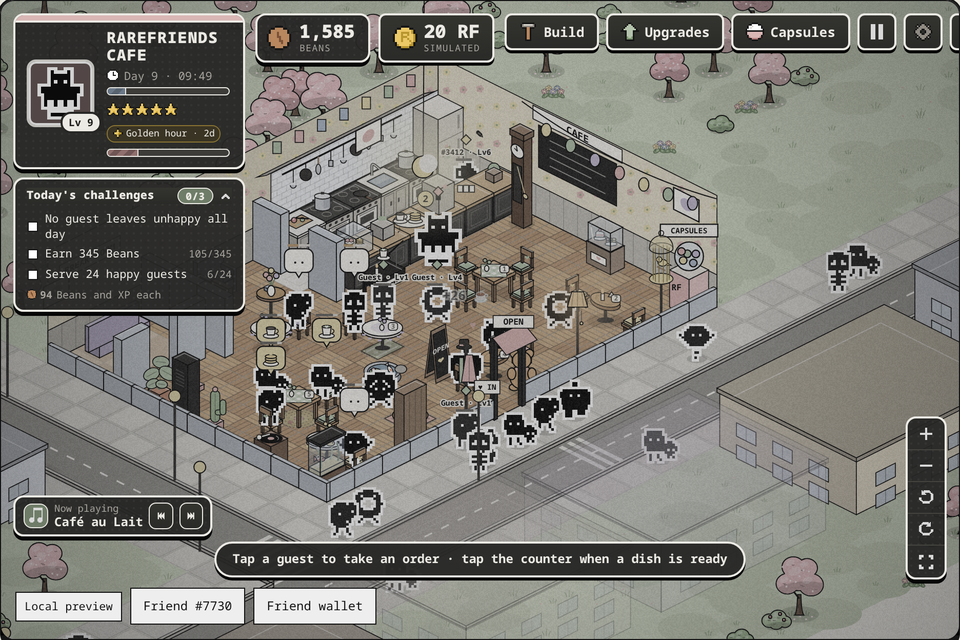
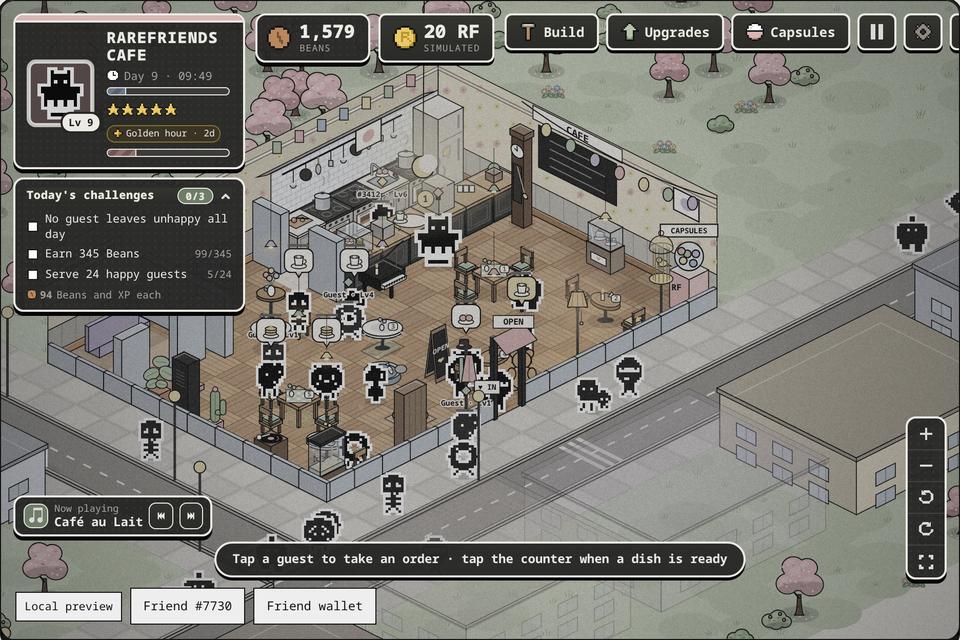
v1.10: a cosier café (warm floor light, lamp and window light pools, pendant lamps, skirting and picture rail, evenings that glow) with no extra frame cost; tables cost more and rise with each one you own

diff --git a/games/rarefriends-cafe/render.ts b/games/rarefriends-cafe/render.ts
@@ -4,7 +4,7 @@ import { FLOORS, WALLPAPERS, catalogItem, dishById, isRug, isTable, shopById, wo
 import { CAPSULE_ID, DIR_FACING, eventActive, ambience, dayProgress, manager, memberOf, plan, tables, type CafeState, type Customer, type Facing, type Passerby, type StaffWho, type Worker } from "./engine.ts";
 import type { GuestArt } from "./guests.ts";
 import { bead, behindWalls, drawProp, outsideProps, paintGround } from "./world.ts";
-import { type Neighbour, FACING, buildingById, depthOf, turnView, viewDir, viewTurn, cameraFor, fromKey, inside, key, project, seatOf, seatsOf, toWorld, unproject, type Camera, type Dir, type Item, type Placement, type Tile } from "./layout.ts";
+import { TILE_W, type Neighbour, FACING, buildingById, depthOf, turnView, viewDir, viewTurn, cameraFor, fromKey, inside, key, project, seatOf, seatsOf, toWorld, unproject, type Camera, type Dir, type Item, type Placement, type Tile } from "./layout.ts";
 
 export const VIEW = { width: 960, height: 640 } as const;
 /** The player's zoom and pan (in view pixels), on top of the camera that frames the shop. */
@@ -110,7 +110,12 @@ const tileQuad = (x: number, y: number, inset = 0) =>
 export function line(ctx: CanvasRenderingContext2D, a: Point, b: Point) { ctx.beginPath(); ctx.moveTo(a.x, a.y); ctx.lineTo(b.x, b.y); ctx.stroke(); }
 
 // ---------- Static layer: paper, street, walls and floors ----------
-let backdrop: { canvas: HTMLCanvasElement; key: string } | null = null;
+let backdrop: { canvas: HTMLCanvasElement; key: string; windows: WindowSpot[] } | null = null;
+/** The windows on the back walls (collected while the backdrop paints), for the daylight they cast on the floor. */
+type WindowSpot = { wall: Wall; start: number; span: number };
+let windowSpots: WindowSpot[] = [];
+/** Pools of light on the floor (lamps, candles, pendants, window light), painted once per layout and time of day. */
+let glowLayer: { canvas: HTMLCanvasElement; key: string } | null = null;
 /** Backdrop canvases are reused while panning and zooming, rather than allocated every frame. */
 const recycled: HTMLCanvasElement[] = [];
 const H = 132;
@@ -382,9 +387,92 @@ function paintBackdrop(state: CafeState, scale: number, camera: Camera) {
   for (let y = 0; y < DEEP; y++) for (let x = 0; x < WIDE; x++) if (!layout.cut.has(key({ x, y }))) {
     line(ctx, project(x - 0.5, y - 0.5), project(x + 0.5, y - 0.5)); line(ctx, project(x - 0.5, y - 0.5), project(x - 0.5, y + 0.5));
   }
+  // Soft shade where the floor meets the back walls (deepest in the corner), so the room has depth.
+  for (const side of backs) {
+    const wall = wallOf(layout, side);
+    for (const [first, last] of wallSpans(layout, side)) {
+      const a = wallPoint(wall, first, 0), b = wallPoint(wall, last + 1, 0), c = wallPoint(wall, last + 1, 0, -1.3), d = wallPoint(wall, first, 0, -1.3);
+      const shade = ctx.createLinearGradient((a.x + b.x) / 2, (a.y + b.y) / 2, (c.x + d.x) / 2, (c.y + d.y) / 2);
+      shade.addColorStop(0, "rgba(70,48,34,.2)"); shade.addColorStop(0.45, "rgba(70,48,34,.07)"); shade.addColorStop(1, "rgba(70,48,34,0)");
+      ctx.fillStyle = shade; ctx.beginPath(); [a, b, c, d].forEach((q, i) => i ? ctx.lineTo(q.x, q.y) : ctx.moveTo(q.x, q.y)); ctx.closePath(); ctx.fill();
+    }
+  }
   ctx.lineWidth = 1; ctx.strokeStyle = INK;
   for (const edge of buildingEdges(layout)) line(ctx, project(edge.tile.x + edge.a.x, edge.tile.y + edge.a.y), project(edge.tile.x + edge.b.x, edge.tile.y + edge.b.y));
   return canvas;
+}
+/** How far the day has turned to evening (0 morning and midday … 1 after closing), in eighths so the light layer repaints rarely. */
+function eveningOf(state: CafeState) {
+  const progress = state.phase === "open" ? dayProgress(state) : state.phase === "summary" ? 1 : 0;
+  return Math.round(Math.max(0, Math.min(1, (progress - 0.5) / 0.45)) * 8) / 8;
+}
+/** Things that give off light, and how: warm lamps and candles, the fire's orange, the neon's pink, the aquarium's blue. */
+const LIGHTS: Partial<Record<ItemKind, { r: number; rgb: string; k: number }>> = {
+  lamp: { r: 1.9, rgb: "255,214,150", k: 0.5 }, candelabra: { r: 1.6, rgb: "255,205,140", k: 0.45 }, fireplace: { r: 2.3, rgb: "255,170,110", k: 0.55 },
+  rfneon: { r: 1.8, rgb: "240,160,190", k: 0.4 }, aquarium: { r: 1.4, rgb: "160,200,235", k: 0.3 }, carousel: { r: 1.4, rgb: "255,220,170", k: 0.3 },
+};
+/**
+ * The light layer, laid over the floor under the furniture: daylight through the windows (fading toward evening) and
+ * pools of lamplight (growing toward evening) under lamps, candles, the fire and every table's pendant. Painted into its
+ * own canvas once per layout, view and eighth of the evening, then drawn with one call a frame.
+ */
+function paintGlow(state: CafeState, scale: number, camera: Camera, windows: readonly WindowSpot[], evening: number) {
+  const canvas = recycled.pop() ?? document.createElement("canvas");
+  canvas.width = Math.round(VIEW.width * scale); canvas.height = Math.round(VIEW.height * scale);
+  const ctx = canvas.getContext("2d")!;
+  ctx.setTransform(scale, 0, 0, scale, 0, 0); ctx.clearRect(0, 0, VIEW.width, VIEW.height);
+  ctx.translate(camera.x, camera.y); ctx.scale(camera.zoom, camera.zoom);
+  const layout = plan(state), day = 1 - evening;
+  // Clip to the building's floor, so light stays indoors.
+  ctx.save(); ctx.beginPath();
+  for (let y = 0; y < layout.d; y++) for (let x = 0; x < layout.w; x++) if (!layout.cut.has(key({ x, y }))) {
+    const quad = [project(x - 0.5, y - 0.5), project(x + 0.5, y - 0.5), project(x + 0.5, y + 0.5), project(x - 0.5, y + 0.5)];
+    quad.forEach((q, i) => i ? ctx.lineTo(q.x, q.y) : ctx.moveTo(q.x, q.y)); ctx.closePath();
+  }
+  ctx.clip();
+  // A warm cast over the whole floor, deeper in the evening.
+  ctx.fillStyle = `rgba(255,205,150,${(0.08 + 0.1 * evening).toFixed(3)})`; ctx.fillRect(-4000, -4000, 8000, 8000);
+  // Daylight: each window throws a slanted patch of light across the floor.
+  if (day > 0.05) for (const { wall, start, span } of windows) {
+    const a = wallPoint(wall, start + 0.1, 0), b = wallPoint(wall, start + span - 0.1, 0), c = wallPoint(wall, start + span + 0.7, 0, -2.1), d = wallPoint(wall, start + 0.9, 0, -2.1);
+    const sun = ctx.createLinearGradient((a.x + b.x) / 2, (a.y + b.y) / 2, (c.x + d.x) / 2, (c.y + d.y) / 2);
+    sun.addColorStop(0, `rgba(255,248,225,${(0.6 * day).toFixed(3)})`); sun.addColorStop(1, "rgba(255,246,220,0)");
+    ctx.fillStyle = sun; ctx.beginPath(); [a, b, c, d].forEach((q, i) => i ? ctx.lineTo(q.x, q.y) : ctx.moveTo(q.x, q.y)); ctx.closePath(); ctx.fill();
+  }
+  // Lamplight: a soft isometric pool under each light, brighter as evening comes.
+  const lamp = 0.7 + 0.5 * evening, pool = (x: number, y: number, r: number, rgb: string, k: number) => {
+    const at = project(x, y), radius = r * TILE_W * 0.72;
+    ctx.save(); ctx.translate(at.x, at.y); ctx.scale(1, 0.5);
+    const g = ctx.createRadialGradient(0, 0, 0, 0, 0, radius);
+    g.addColorStop(0, `rgba(${rgb},${(k * lamp).toFixed(3)})`); g.addColorStop(0.55, `rgba(${rgb},${(k * lamp * 0.4).toFixed(3)})`); g.addColorStop(1, `rgba(${rgb},0)`);
+    ctx.fillStyle = g; ctx.fillRect(-radius, -radius, radius * 2, radius * 2); ctx.restore();
+  };
+  for (const item of state.items) {
+    if (isTable(item.kind)) pool(item.x, item.y, 1.25, "255,212,150", 0.36);
+    else { const light = LIGHTS[item.kind]; if (light) pool(item.x, item.y, light.r, light.rgb, light.k); }
+  }
+  // The pass under the counter's heat lamps.
+  for (const tile of layout.pickups) pool(tile.x, tile.y, 1.2, "255,210,150", 0.28);
+  ctx.restore();
+  return canvas;
+}
+/** A pendant lamp's warm halo, drawn once and stamped for every pendant. */
+let haloSprite: HTMLCanvasElement | null = null;
+function halo() {
+  if (haloSprite) return haloSprite;
+  const c = document.createElement("canvas"); c.width = c.height = 64;
+  const g = c.getContext("2d")!, r = g.createRadialGradient(32, 32, 0, 32, 32, 32);
+  r.addColorStop(0, "rgba(255,228,170,.75)"); r.addColorStop(0.35, "rgba(255,220,160,.28)"); r.addColorStop(1, "rgba(255,220,160,0)");
+  g.fillStyle = r; g.fillRect(0, 0, 64, 64);
+  return haloSprite = c;
+}
+/** A pendant lamp over a table: a cord from the rafters, a little shade in the table's colour, and a glowing bulb. */
+function drawPendant(ctx: CanvasRenderingContext2D, x: number, y: number, accent: string, glow: number) {
+  const top = project(x, y, 172), at = project(x, y, 128);
+  ctx.strokeStyle = "rgba(22,22,22,.7)"; ctx.lineWidth = 0.8; line(ctx, top, at); ctx.lineWidth = 1;
+  ctx.globalAlpha = 0.35 + 0.65 * glow; ctx.drawImage(halo(), at.x - 18, at.y - 12, 36, 36); ctx.globalAlpha = 1;
+  poly(ctx, [{ x: at.x - 2, y: at.y }, { x: at.x + 2, y: at.y }, { x: at.x + 7, y: at.y + 7 }, { x: at.x - 7, y: at.y + 7 }], accent, INK);
+  ctx.fillStyle = "#fff4d2"; ctx.beginPath(); ctx.ellipse(at.x, at.y + 8, 3, 1.6, 0, 0, Math.PI * 2); ctx.fill();
 }
 /** One back wall with everything that hangs on it. Positions along a wall are grid coordinates (x or y). */
 function paintWall(ctx: CanvasRenderingContext2D, state: CafeState, layout: ReturnType<typeof plan>, side: Side, paper: { id: string; colors: readonly string[] }, level: number, shop: Shop) {
@@ -400,6 +488,14 @@ function paintWall(ctx: CanvasRenderingContext2D, state: CafeState, layout: Retu
   }
   const within = (from: number, to: number) => spans.some(([first, last]) => from >= first - 0.5 && to <= last + 0.5);
   wallpaper(ctx, paper.id, wall, paper.colors);
+  // Cosy trim: a warm wooden skirting board along the floor and a pale picture rail near the top.
+  {
+    const leftward = wallSlope(wall) < 0, end = wall.length, at = (t: number, h: number) => wallPoint(wall, t, h);
+    poly(ctx, [at(0, 0), at(end, 0), at(end, 9), at(0, 9)], leftward ? "#b8946c" : "#a07e5b", INK);
+    ctx.strokeStyle = "rgba(255,240,215,.55)"; line(ctx, at(0, 8), at(end, 8));
+    poly(ctx, [at(0, H - 16), at(end, H - 16), at(end, H - 12), at(0, H - 12)], leftward ? "#f6f1e6" : "#e8e1d2", "rgba(22,22,22,.55)");
+    ctx.strokeStyle = INK;
+  }
   const text = (c: number, h: number, draw: () => void) => { ctx.save(); onPlane(ctx, on(c, h), wall.start, wall.dir); draw(); ctx.restore(); };
   const frame = (c: number, h: number, color: string) => text(c, h, () => {
     ctx.fillStyle = C.light; ctx.fillRect(-15, -22, 30, 26); ctx.strokeStyle = INK; ctx.lineWidth = 1.5; ctx.strokeRect(-15, -22, 30, 26);
@@ -409,6 +505,7 @@ function paintWall(ctx: CanvasRenderingContext2D, state: CafeState, layout: Retu
     for (let start = from; start + 2.2 <= to; start += 3) {
       if (skip !== undefined && skip > start - 1.2 && skip < start + 3.4) continue;
       if (!within(start - 0.2, start + 2.4)) continue;
+      windowSpots.push({ wall, start, span: 2.2 });
       const span = 2.2, lo = 50, hi = 112, at = (c: number, h: number, out = 0) => on(c, h, out);
       poly(ctx, [at(start, lo), at(start + span, lo), at(start + span, hi), at(start, hi)], "#c9d2da", INK);
       ctx.strokeStyle = INK; line(ctx, at(start + span / 2, lo), at(start + span / 2, hi)); line(ctx, at(start, (lo + hi) / 2), at(start + span, (lo + hi) / 2));
@@ -1672,12 +1769,16 @@ export function renderScene(ctx: CanvasRenderingContext2D, scene: Scene, pixelSc
   ctx.setTransform(pixelScale, 0, 0, pixelScale, 0, 0);
   ctx.imageSmoothingEnabled = false;
   const cacheKey = `${state.shop}:${state.wallpaper}:${state.floor}:${level}:${state.size}:${state.building}:${state.scenery}:${view.zoom}:${view.x}:${view.y}:${viewTurn.r}:${pixelScale}`;
-  if (backdrop?.key !== cacheKey) { backdrop?.canvas && recycled.push(backdrop.canvas); backdrop = { canvas: paintBackdrop(state, pixelScale, camera), key: cacheKey }; }
+  if (backdrop?.key !== cacheKey) { backdrop?.canvas && recycled.push(backdrop.canvas); windowSpots = []; backdrop = { canvas: paintBackdrop(state, pixelScale, camera), key: cacheKey, windows: windowSpots }; }
   ctx.drawImage(backdrop.canvas, 0, 0, VIEW.width, VIEW.height);
   // Everything below is drawn in world space through the camera.
   const scale = pixelScale * camera.zoom;
   ctx.setTransform(scale, 0, 0, scale, pixelScale * camera.x, pixelScale * camera.y);
   for (const item of state.items) if (isRug(item.kind)) drawRug(ctx, item.kind, item, item.dir);
+  // The light on the floor (cached): repainted only when the layout, the view or the evening's eighth changes.
+  const evening = eveningOf(state), glowKey = `${cacheKey}:${evening}:${state.items.map(item => `${item.kind}${item.x},${item.y}`).join(";")}`;
+  if (glowLayer?.key !== glowKey) { glowLayer?.canvas && recycled.push(glowLayer.canvas); glowLayer = { canvas: paintGlow(state, pixelScale, camera, backdrop.windows, evening), key: glowKey }; }
+  ctx.save(); ctx.setTransform(pixelScale, 0, 0, pixelScale, 0, 0); ctx.drawImage(glowLayer.canvas, 0, 0, VIEW.width, VIEW.height); ctx.restore();
 
   if (build) {
     ctx.strokeStyle = "rgba(22,22,22,.28)"; ctx.setLineDash([2, 3]);
@@ -1760,6 +1861,7 @@ export function renderScene(ctx: CanvasRenderingContext2D, scene: Scene, pixelSc
         }
       }
       add(depthOf(item.x, item.y), 0, () => { ctx.globalAlpha = faded; drawTable(ctx, item, tableNumbers.get(item.id)!, accent, now, reducedMotion); ctx.globalAlpha = 1; });
+      if (!build) add(depthOf(item.x, item.y) + 0.35, 2, () => drawPendant(ctx, item.x, item.y, accent, 0.45 + 0.55 * evening));
     } else add(depthOf(item.x, item.y), 0, () => { ctx.globalAlpha = faded; drawItem(ctx, item.kind, item, item.dir, now, reducedMotion, statueRows(item.dir)); ctx.globalAlpha = 1; });
   }
   if (build?.ghost) {

diff --git a/games/rarefriends-cafe/index.tsx b/games/rarefriends-cafe/index.tsx
@@ -11,6 +11,7 @@ import {
   EVENTS, eventById, SCENERIES, challengeReward, type SceneryId, FLOORS, WALLPAPERS, dishById, BOOSTS, MANAGER_SKILLS, UPGRADES, upgradeById, type BoostId, type UpgradeId, BLEND_BONUSES, DAY_LENGTH, EXCLUSIVES, FAMILY_NAMES, workerLevel, type ItemKind, FAMILY_PERKS, LEVEL_XP, MAX_LEVEL, catalogItem, shopById, tableLimit, type DishId, type ShopId,
 } from "./data.ts";
 import {
+  itemCost,
   actOnCounter, actOnCustomer, actOnTable, ambience, ambiencePoints, applyFinish, assignStaff, availableDishes, buy, carryCapacity, chooseShop,
   CAPSULE_ID, eventSecondsLeft, applyScenery, challengesFor, unlockScenery, addBoost, raiseSkill, skillLevel, skillPoints, raiseStat, setBuilding, buyUpgrade, capsuleProblemAt, moveCapsule, nextUpgrade, upgradeLevel, clearQueue, createCafe, dayProgress, interactNearby, isClosing, itemAt, kitchenSlots, manager, moveItem, openCafe, placeItem, purchaseCost,
   purchaseLevel, restoreCafe, sellItem, serializeCafe, setBlends, setManual, setOwnedFriends, setStaffRole, unlockDish, update, walkTo, type CafeState,
@@ -216,8 +217,11 @@ export default function RareFriendsCafe({ friendId, client, paused }: GameCompon
           const photo = document.createElement("canvas"); photo.width = VIEW.width; photo.height = VIEW.height;
           photo.getContext("2d")!.drawImage(node, 0, 0, VIEW.width, VIEW.height); daySnapshot.current = photo;
         }
+        const drawStart = performance.now();
         renderScene(ctx, { state, now, reducedMotion: live.current.reducedMotion, guests: GUESTS, regulars: regularMap, friend: sprites,
           staffSprites: staffSprites.current, floaters: floaters.current, hover: hover.current, build: live.current.build ? buildView.current : null }, pixelScale);
+        // Automated runs only: a rolling average of the frame's drawing time (window.__cafeFrameMs).
+        if (navigator.webdriver) { const w = window as unknown as { __cafeFrameMs?: number }; w.__cafeFrameMs = (w.__cafeFrameMs ?? 0) * 0.95 + (performance.now() - drawStart) * 0.05; }
         if (now - lastHud > 150) { lastHud = now; setHud(readHud(state)); }
         frame = requestAnimationFrame(render);
       };
@@ -256,7 +260,7 @@ export default function RareFriendsCafe({ friendId, client, paused }: GameCompon
     if (build.cursor && build.tab === "items" && (build.mode === "place" || moving)) {
       const kind = moving ? moving.kind : build.kind;
       ghost = { kind, x: build.cursor.x, y: build.cursor.y, dir: build.dir };
-      valid = !placementProblem(state.items, ghost, plan(state), moving?.id) && (Boolean(moving) || state.beans >= catalogItem(kind).cost);
+      valid = !placementProblem(state.items, ghost, plan(state), moving?.id) && (Boolean(moving) || state.beans >= itemCost(state, kind));
     }
     buildView.current = { cursor: build.cursor, ghost, valid, selected: build.selected, capsule };
   }, [build, hud?.beans]);
@@ -272,7 +276,7 @@ export default function RareFriendsCafe({ friendId, client, paused }: GameCompon
     if (!state || !build || build.tab !== "items") return;
     let problem: string | null = null, done = "";
     if (build.mode === "place") {
-      const entry = catalogItem(build.kind), candidate = { kind: build.kind, x: tile.x, y: tile.y, dir: build.dir };
+      const entry = { ...catalogItem(build.kind), cost: itemCost(state, build.kind) }, candidate = { kind: build.kind, x: tile.x, y: tile.y, dir: build.dir };
       // Ask before spending: check the spot first so a refused placement doesn't prompt.
       const blocked = placementProblem(state.items, candidate, plan(state));
       if (!blocked && entry.cost > 0 && state.prefs.confirm && state.beans >= entry.cost) {

diff --git a/games/rarefriends-cafe/panels.tsx b/games/rarefriends-cafe/panels.tsx
@@ -6,7 +6,7 @@ import {
   SCENERIES, type SceneryId, type DishShape, type Finish, type ItemKind, type ShopId, type StatId,
 } from "./data.ts";
 import { TRACKS, type TrackId } from "./audio.ts";
-import { SHUFFLE_EVERY, type Prefs } from "./engine.ts";
+import { SHUFFLE_EVERY, itemCost, type Prefs } from "./engine.ts";
 import { generationOf, purchaseCost, purchaseLevel, staffAt, staffPower, statPoints, tableCount, type CafeState, type StaffRole, type StaffWho } from "./engine.ts";
 import type { GuestArt } from "./guests.ts";
 import { drawItem, drawShape, INK } from "./render.ts";
@@ -278,8 +278,8 @@ export function BuildBar({ state, tool, onTool, onFinish, onDone, message, onPre
           <Icon name={mode === "move" ? "fit" : mode === "turn" ? "turnRight" : "close"} size={14} /><span>{mode === "move" ? "Move" : mode === "turn" ? "Turn" : "Sell"}<small>{mode === "move" ? "tap item, then tile" : mode === "turn" ? "tap an item to turn it" : "50% refund"}</small></span></button>)}
         <button type="button" onClick={() => onTool({ ...tool, dir: turned(tool.dir) })} aria-label={`Rotate (R), now facing ${DIR_LABELS[tool.dir][1]}`}><Icon name="turnRight" size={14} /><span>Rotate {DIR_LABELS[tool.dir][0]}<small>R · Shift+R back</small></span></button>
         {CATALOG.filter(item => shelfOf(item.kind) === tool.shelf && (item.tier === undefined || (state.collection.has(item.kind) && !state.items.some(placed => placed.kind === item.kind)))).map(item =>
-          <button type="button" key={item.kind} aria-pressed={tool.mode === "place" && tool.kind === item.kind} disabled={state.beans < item.cost} className={item.tier !== undefined ? "cafe-exclusive" : undefined}
-            onClick={() => onTool({ ...tool, mode: "place", kind: item.kind })}><span>{item.name}<small>{item.tier !== undefined ? "RF exclusive · free" : <Beans n={item.cost} size={10} />}{item.ambience ? ` · +${item.ambience}` : ""}</small></span></button>)}
+          <button type="button" key={item.kind} aria-pressed={tool.mode === "place" && tool.kind === item.kind} disabled={state.beans < itemCost(state, item.kind)} className={item.tier !== undefined ? "cafe-exclusive" : undefined}
+            onClick={() => onTool({ ...tool, mode: "place", kind: item.kind })}><span>{item.name}<small>{item.tier !== undefined ? "RF exclusive · free" : <Beans n={itemCost(state, item.kind)} size={10} />}{item.ambience ? ` · +${item.ambience}` : ""}</small></span></button>)}
       </> : tool.tab === "walls" ? finishes("wallpaper", WALLPAPERS) : tool.tab === "floors" ? finishes("floor", FLOORS)
         : tool.tab === "outside" ? SCENERIES.map(scenery => {
           const owned = state.sceneries.has(scenery.id), active = state.scenery === scenery.id;

diff --git a/games/rarefriends-cafe/engine.ts b/games/rarefriends-cafe/engine.ts
@@ -527,18 +527,27 @@ function afterLayoutChange(state: CafeState) {
     if (customer.state === "leaving") customer.walker.path = route(at(customer.walker), [{ x: layout.lane, y: layout.door.y }], state.blocked, layout) ?? [];
   }
 }
+/** Tables past the first three cost 15% more for each table already placed (rounded to 5), so a full room is earned. */
+export const TABLE_STEP = 0.15, FREE_TABLES = 3;
+/** What placing one more of an item costs now (the catalog price, raised for tables). */
+export function itemCost(state: Pick<CafeState, "items">, kind: ItemKind): number {
+  const base = catalogItem(kind).cost;
+  if (!isTable(kind)) return base;
+  const extra = Math.max(0, state.items.filter(item => isTable(item.kind)).length - (FREE_TABLES - 1));
+  return Math.round(base * (1 + TABLE_STEP * extra) / 5) * 5;
+}
 /** Place a new item bought with Beans. */
 export function placeItem(state: CafeState, kind: ItemKind, tile: Tile, dir: Dir = 0): string | null {
-  const entry = catalogItem(kind);
+  const entry = catalogItem(kind), cost = itemCost(state, kind);
   if (entry.tier !== undefined && !state.collection.has(kind)) return `${entry.name} comes from Rare Recipe Capsules.`;
   if (entry.tier !== undefined && state.items.some(item => item.kind === kind)) return `Your ${entry.name} is already placed. Move it instead.`;
   if (isTable(kind) && tableCount(state) >= tableLimit(state.level)) return `Level ${state.level} allows ${tableLimit(state.level)} tables. Level up for more.`;
-  if (state.beans < entry.cost) return "Not enough Beans.";
+  if (state.beans < cost) return "Not enough Beans.";
   const candidate = { kind, x: tile.x, y: tile.y, dir };
   if (occupiedByGuest(state, tile) || seatsOf(candidate).some(seat => occupiedByGuest(state, seat))) return "A guest is standing there.";
   const problem = placementProblem(state.items, candidate, plan(state));
   if (problem) return problem;
-  state.beans -= entry.cost;
+  state.beans -= cost;
   state.items.push({ id: state.nextId++, ...candidate });
   afterLayoutChange(state);
   return null;

diff --git a/games/rarefriends-cafe/data.ts b/games/rarefriends-cafe/data.ts
@@ -210,9 +210,9 @@ export type ItemKind = "table" | "tabletwo" | "tablefour" | "plant" | "lamp" | "
 /** `seats` marks a table: 1 (chair on the `dir` side), 2 (opposite sides) or 4 (every side). */
 export type CatalogItem = Readonly<{ kind: ItemKind; name: string; cost: number; ambience: number; blocks: boolean; text: string; tier?: number; seats?: number }>;
 export const CATALOG: readonly CatalogItem[] = [
-  { kind: "table", name: "Table & chair", cost: 60, ambience: 0, blocks: true, seats: 1, text: "Seats one guest. R / Rotate turns the chair to any side." },
-  { kind: "tabletwo", name: "Table for two", cost: 110, ambience: 0, blocks: true, seats: 2, text: "Seats a pair across the table; one order for both." },
-  { kind: "tablefour", name: "Table for four", cost: 190, ambience: 1, blocks: true, seats: 4, text: "A chair on every side for groups of up to four; one order for the table." },
+  { kind: "table", name: "Table & chair", cost: 100, ambience: 0, blocks: true, seats: 1, text: "Seats one guest. R / Rotate turns the chair to any side." },
+  { kind: "tabletwo", name: "Table for two", cost: 210, ambience: 0, blocks: true, seats: 2, text: "Seats a pair across the table; one order for both." },
+  { kind: "tablefour", name: "Table for four", cost: 380, ambience: 1, blocks: true, seats: 4, text: "A chair on every side for groups of up to four; one order for the table." },
   { kind: "cactus", name: "Little cactus", cost: 25, ambience: 1, blocks: true, text: "+1 ambience" },
   { kind: "plant", name: "Potted monstera", cost: 35, ambience: 1, blocks: true, text: "+1 ambience" },
   { kind: "coatrack", name: "Coat rack", cost: 40, ambience: 1, blocks: true, text: "+1 ambience" },

diff --git a/games/rarefriends-cafe/changelog.ts b/games/rarefriends-cafe/changelog.ts
@@ -3,6 +3,16 @@ export type Release = Readonly<{ version: string; date: string; title: string; n
 
 export const CHANGELOG: readonly Release[] = [
   {
+    version: "1.10", date: "2026-09-30", title: "A cosier café, and tables that cost more",
+    notes: [
+      "The shop floor glows: a warm cast over the whole room, soft pools of light under lamps, candles, the fireplace and the counter, and slanted daylight from every window.",
+      "Toward closing time the daylight fades and the lamplight grows, so evenings feel snug.",
+      "Every table has a little pendant lamp hanging above it, in the table's colour.",
+      "A wooden skirting board and a picture rail on the walls, and soft shade where the floor meets them.",
+      "Tables cost more: 100 Beans for a table and chair, 210 for two, 380 for four, and each table past your first three costs 15% more for every table you already have. Selling still refunds half the base price.",
+    ],
+  },
+  {
     version: "1.9", date: "2026-09-30", title: "A polished new look",
     notes: [
       "Every panel, button and menu has a new look: chunky ink edges, soft corners, and keycap buttons that press down.",
